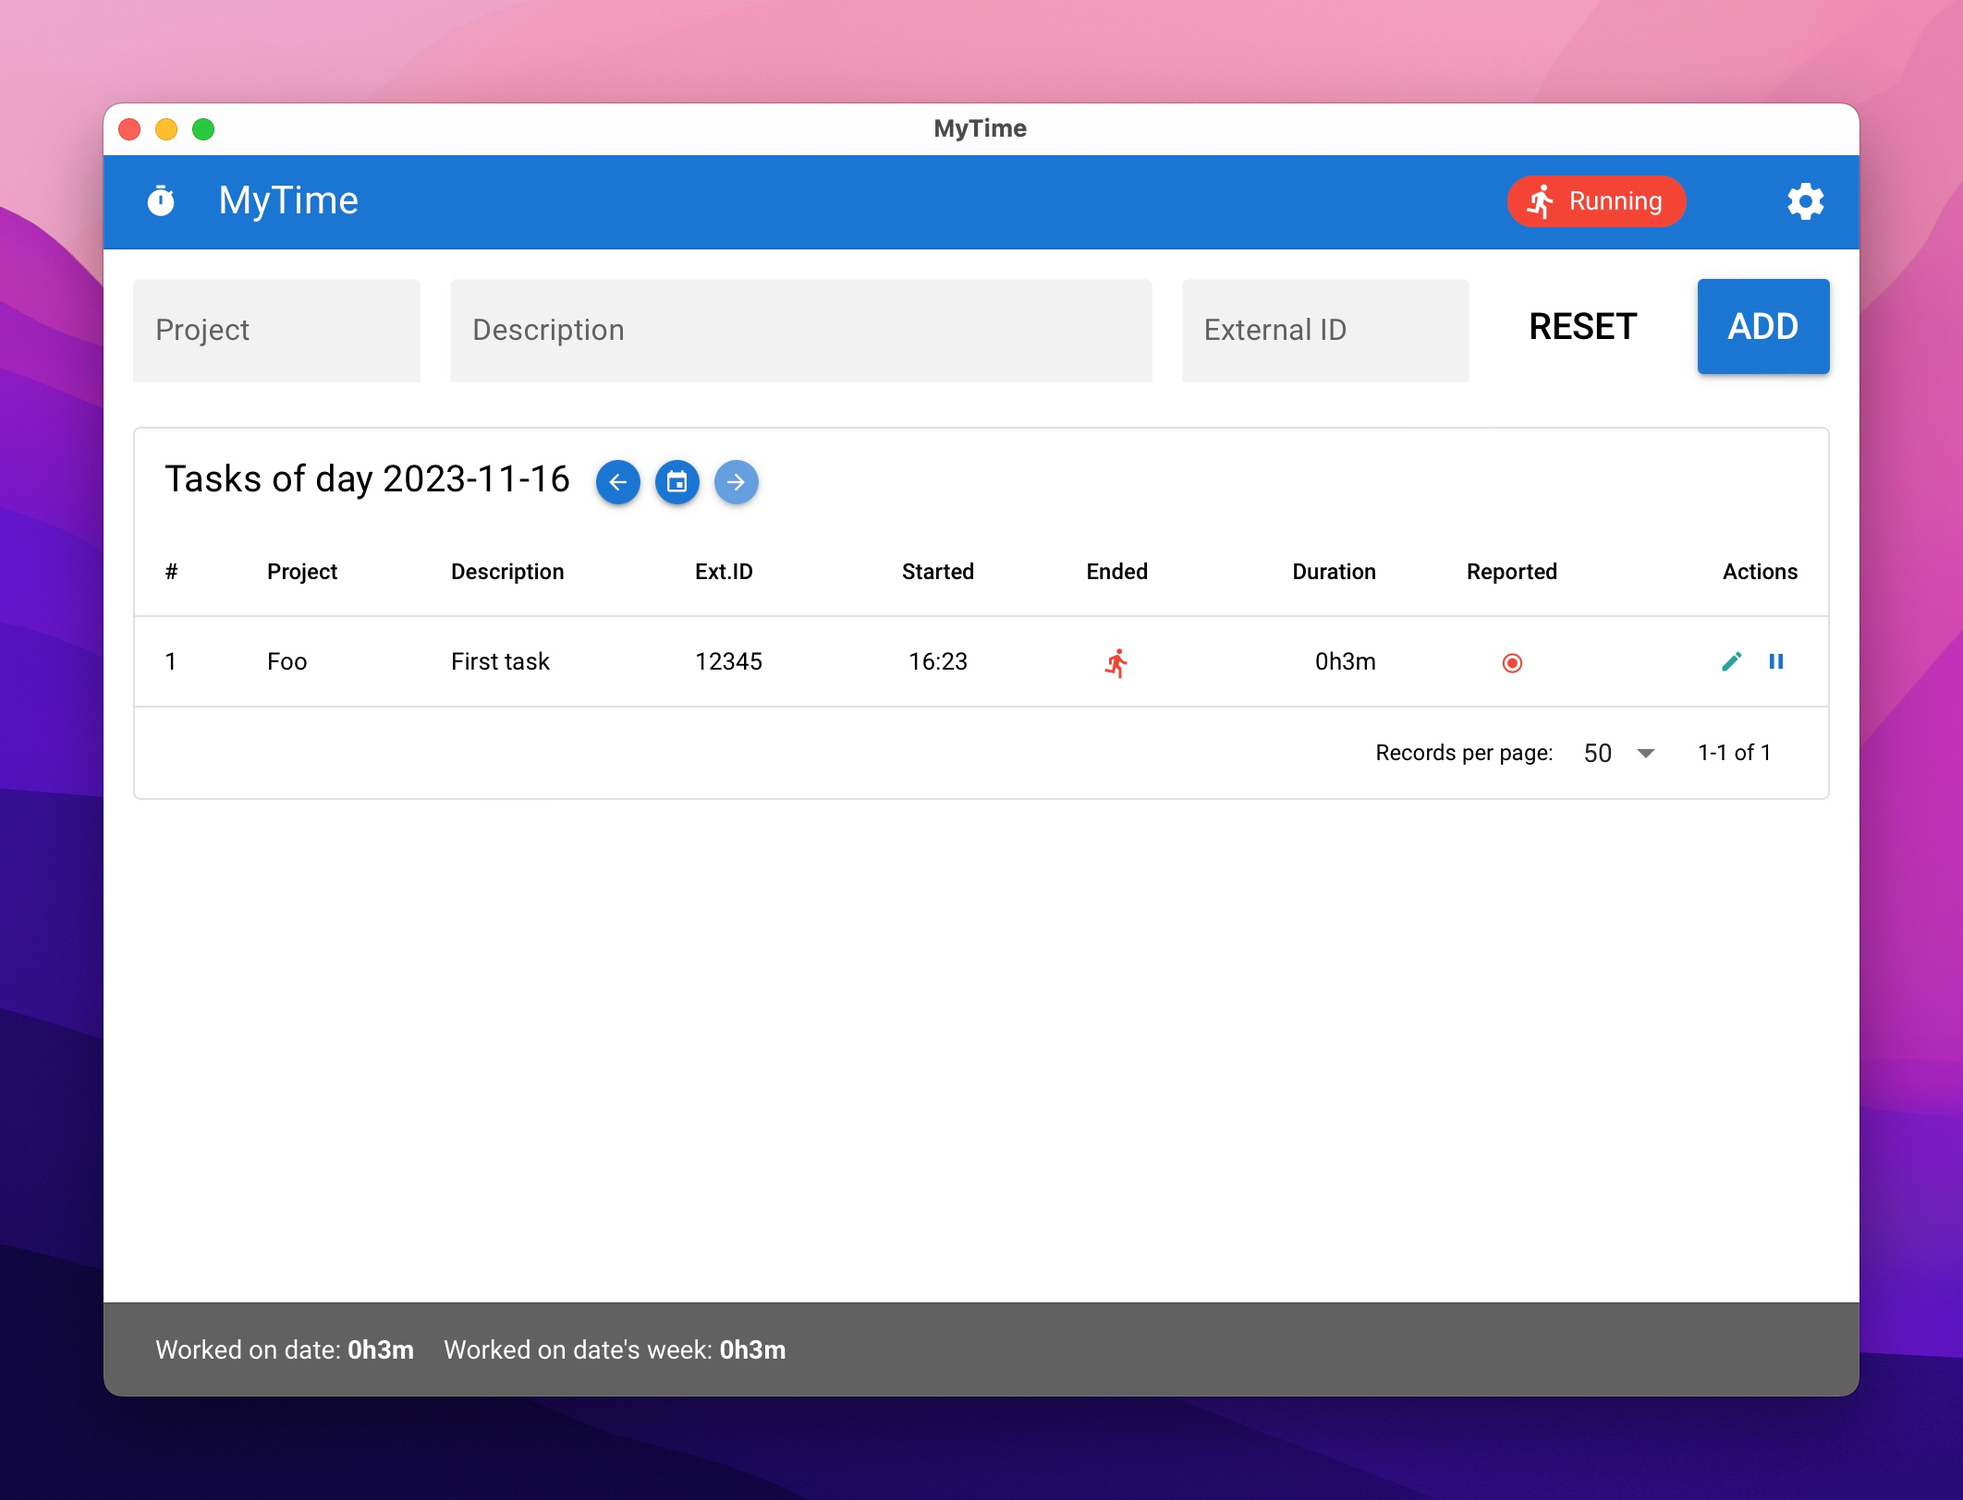
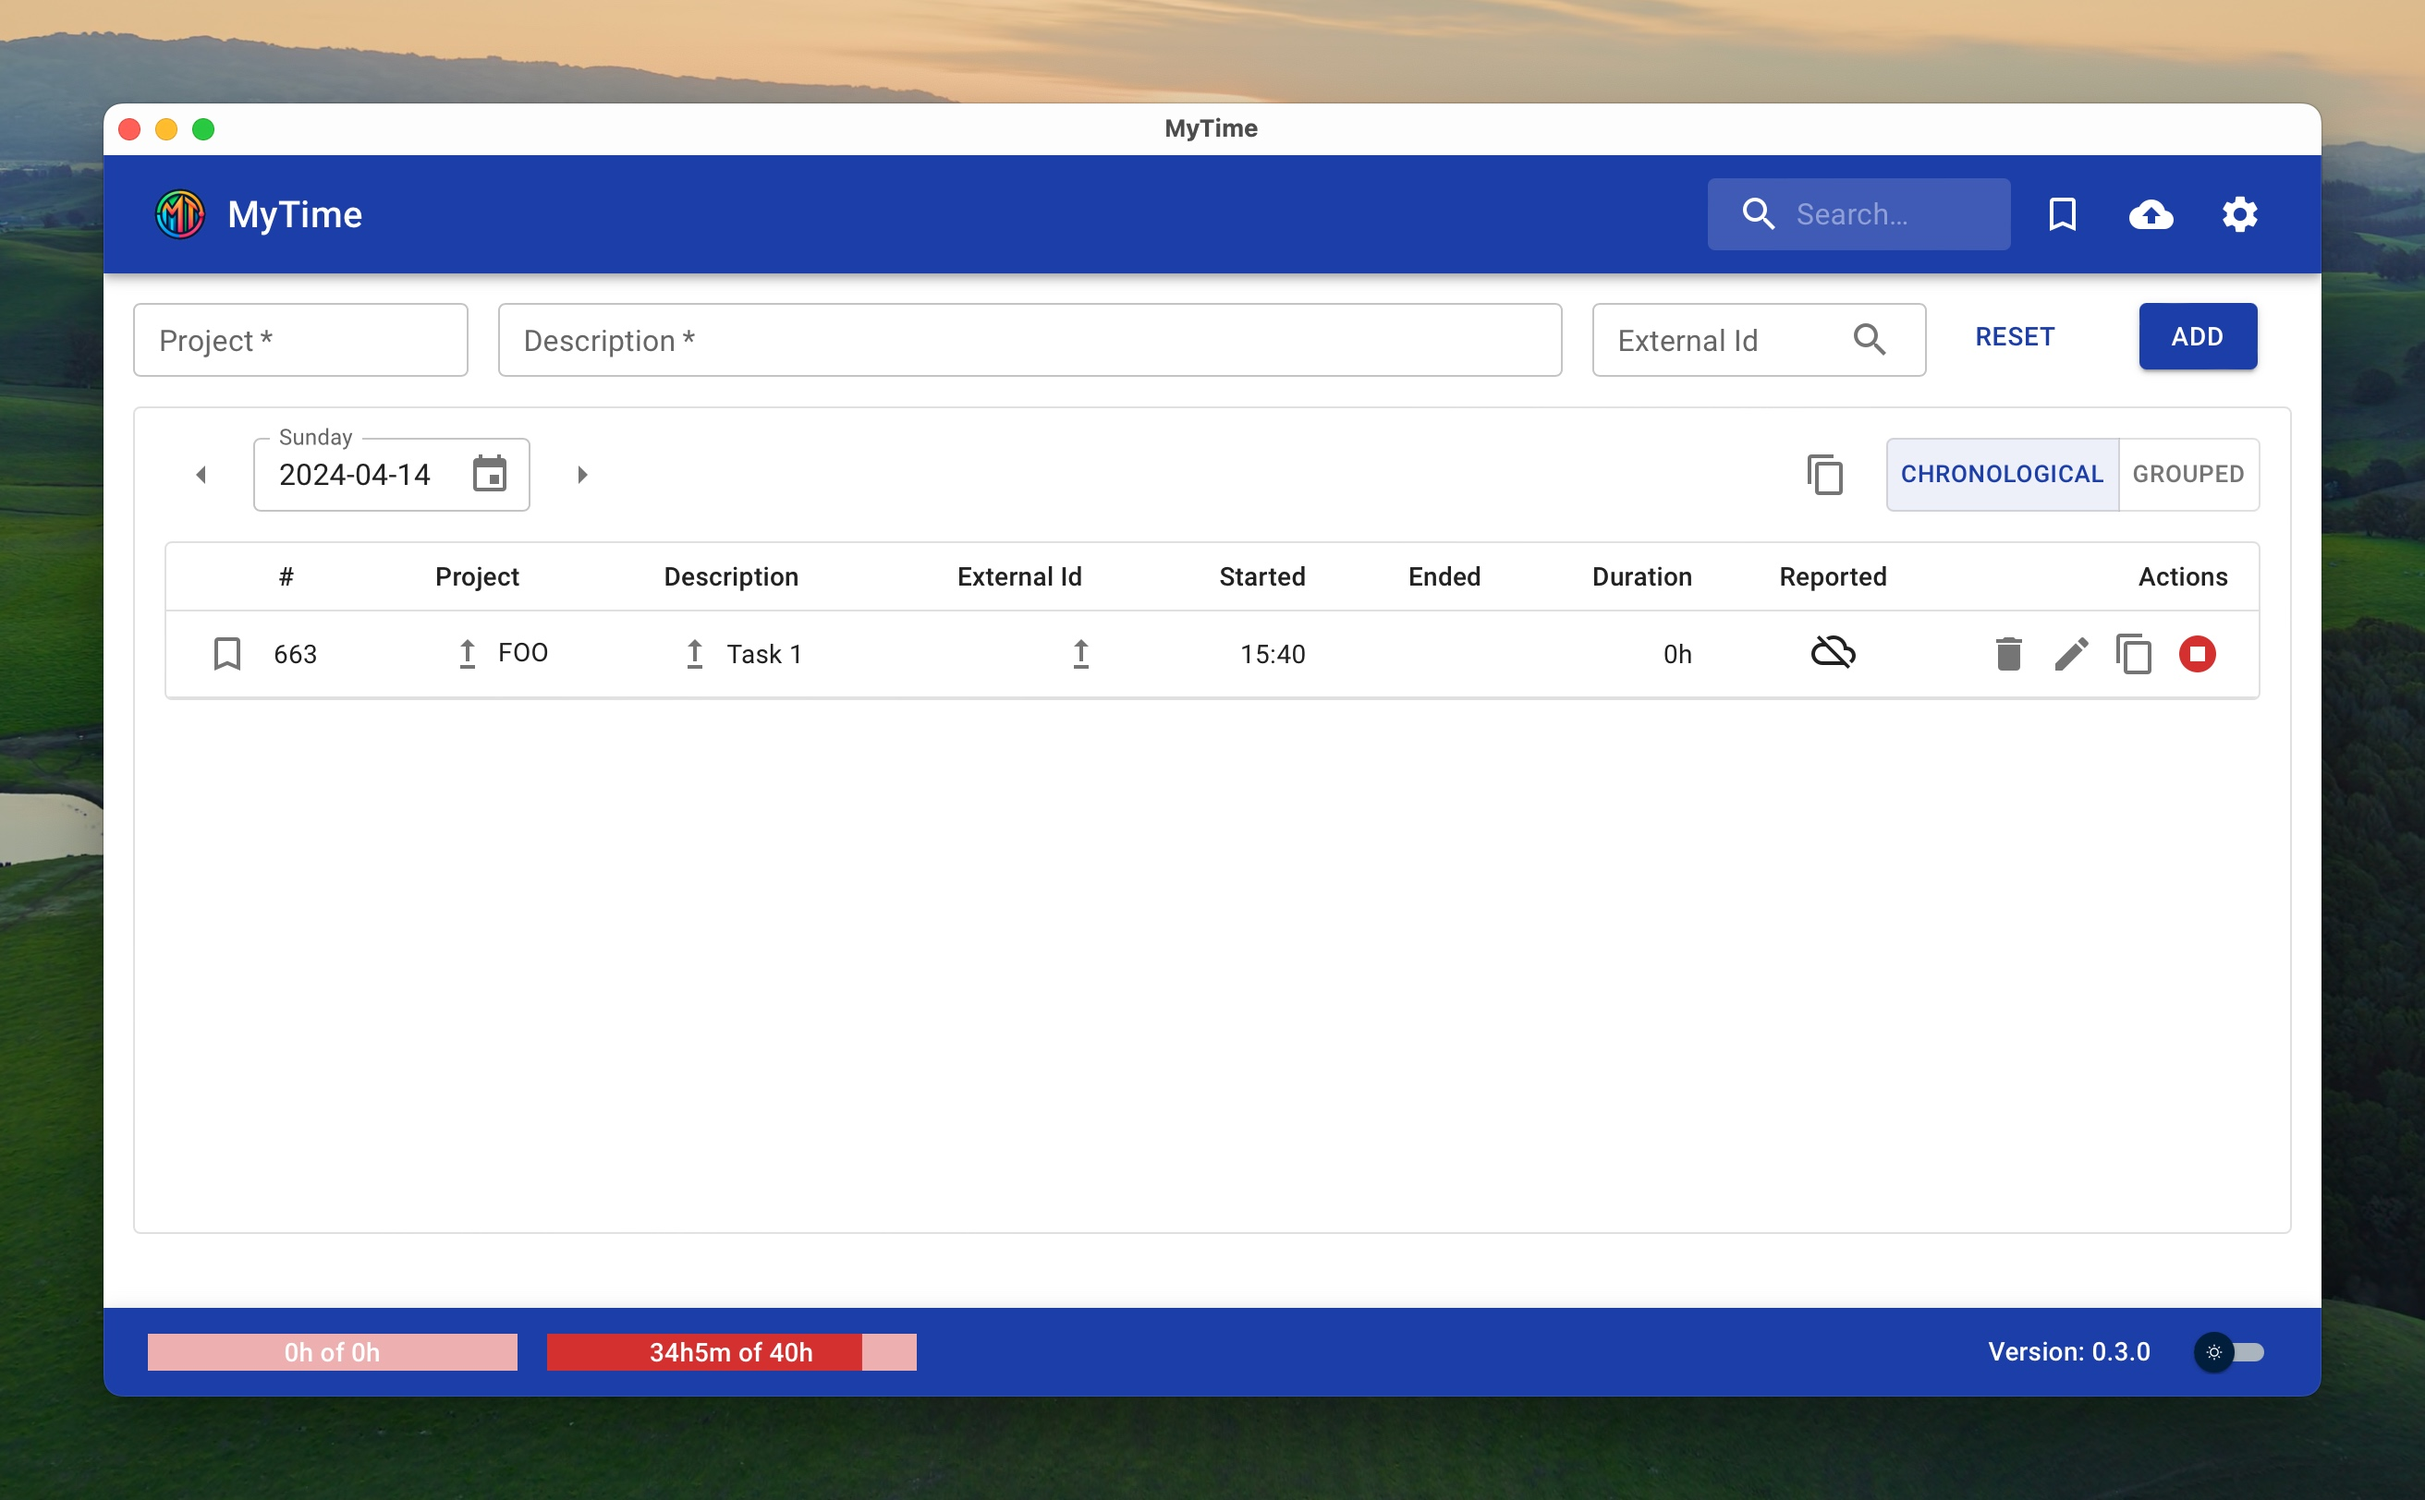
docs: change screenshots

diff --git a/README.md b/README.md
@@ -1,18 +1,20 @@
 # mytime
 
-<img src="./app-icon.png" width="200" align="center">
+<p align="center">
+  <img src="./app-icon.png" width="200">
+</p>
 
 MyTime is an application to track your working time. It allows you register your daily tasks, calculate its duration
 and synchronize with your ticketing system. At them moment is only integrated with Redmine.
 
-Create tasks:
-![Screenshot 1](./captures/cap1.png)
+Initial screen:
+![Screenshot 1](./captures/cap1.jpeg)
 
-See running and tasks done:
+App with running tasks:
 ![Screenshot 2](./captures/cap2.jpeg)
 
-Synchronize your tasks:
-![Screenshot 3](./captures/cap3.jpeg)
+Synchronize your tasks with Redmine
+![Screenshot 3](./captures/cap3.png)
 
 ## Database
 
